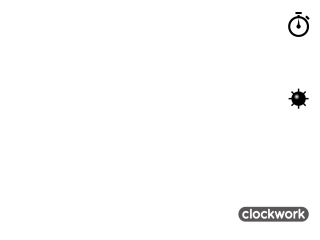
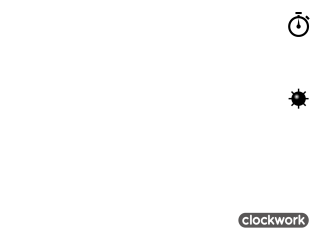
class GameEnd added and tested

Changed region(s): [[0.7188, 0.8458, 0.9688, 0.9625]]

diff --git a/game.py b/game.py
@@ -108,6 +108,24 @@ class TimerDig(pygame.sprite.Sprite):
         self.image2 = minesign_image.get_image(xdig2, 7.5, 25, 45)
         self.image3 = minesign_image.get_image(xdig3, 7.5, 25, 45)
 
+class GameEnd(pygame.sprite.Sprite):
+    global seconds
+    def __init__(self, screen):
+        pygame.sprite.Sprite.__init__(self)
+        self.screen = screen
+        self.gameover = minesign_image.get_image(455, 15, 75, 40)
+        self.youwon = minesign_image.get_image(535, 15, 75, 40)
+    def show(self, status):
+        self.status = status
+        if seconds % 2 == 0:
+           if self.status == "G":
+              self.screen.blit(self.gameover, (235,170))
+           if self.status == "W":
+              self.screen.blit(self.youwon, (235,170))
+        else:
+           pygame.draw.rect(self.screen, (255, 255, 255), (235, 170, 75, 40), 0)
+
+
 class BombCounter(pygame.sprite.Sprite):
     def __init__(self):
         pygame.sprite.Sprite.__init__(self)
@@ -147,6 +165,8 @@ class allfield(pygame.sprite.Sprite):
         self.COLUMNS = 9
         self.pointerPos = (0, 0)
         self.gameStop = False
+        self.gameWon = False
+        self.gameOver = False
 
         #Define the defualt array for mineField, touchingField, and coverField.
         self.mineField = mineField
@@ -158,6 +178,15 @@ class allfield(pygame.sprite.Sprite):
                   self.searchSurrounding(blockX, blockY, self.ROWS, self.COLUMNS)
         print(self.touchingField)
 
+    def gameCheck(self):
+        zero = 0
+        for blockY in range(self.ROWS):
+             for blockX in range(self.COLUMNS):
+                 if self.coverField[blockX][blockY] == 0:
+                     zero += 1
+        if zero == 0:
+           self.gameStop = True
+           self.gameWon = True
 
     def resetAll(self):
         self.gameStop = False
@@ -365,6 +394,7 @@ class allfield(pygame.sprite.Sprite):
               self.coverField[Row][Col] = 3
               self.bombinCover()
               self.gameStop = True
+              self.gameOver = True
               #BombCounter.bombCount += 1
            elif self.coverField[Row][Col] == 0 and self.mineField[Row][Col] == 0:
               self.coverField[Row][Col] = 5
@@ -419,6 +449,7 @@ class allfield(pygame.sprite.Sprite):
 all_sprites = pygame.sprite.Group()
 TimerDig = TimerDig()
 Pointer = Pointer()
+GameEnd = GameEnd(screen)
 Allfield = allfield()
 BombCounter = BombCounter()
 all_sprites.add(TimerDig,BombCounter,Allfield)
@@ -453,6 +484,7 @@ while not done:
                 Allfield.resetAll()
                 timeElapsed = 0
                 BombCounter.bombCount = 10
+                Allfield.gameOver = False
         if event.type == pygame.KEYUP:
             if event.key == pygame.K_LEFT or event.key == pygame.K_RIGHT:
                 Pointer.x_change = 0
@@ -476,6 +508,14 @@ while not done:
     screen.blit(Pointer.image_poin, (Pointer.rect))
     #timeElapsed += 16.66676
     timeElapsed += 40
+    #if not Allfield.gameWon:
+    #   GameEnd.show("W")
+    if BombCounter.bombCount == 0:
+       Allfield.gameCheck()
+       if Allfield.gameWon:
+          GameEnd.show("W")
+    if Allfield.gameOver:
+          GameEnd.show("G")
     pygame.display.flip()
     clock.tick(30)
 
